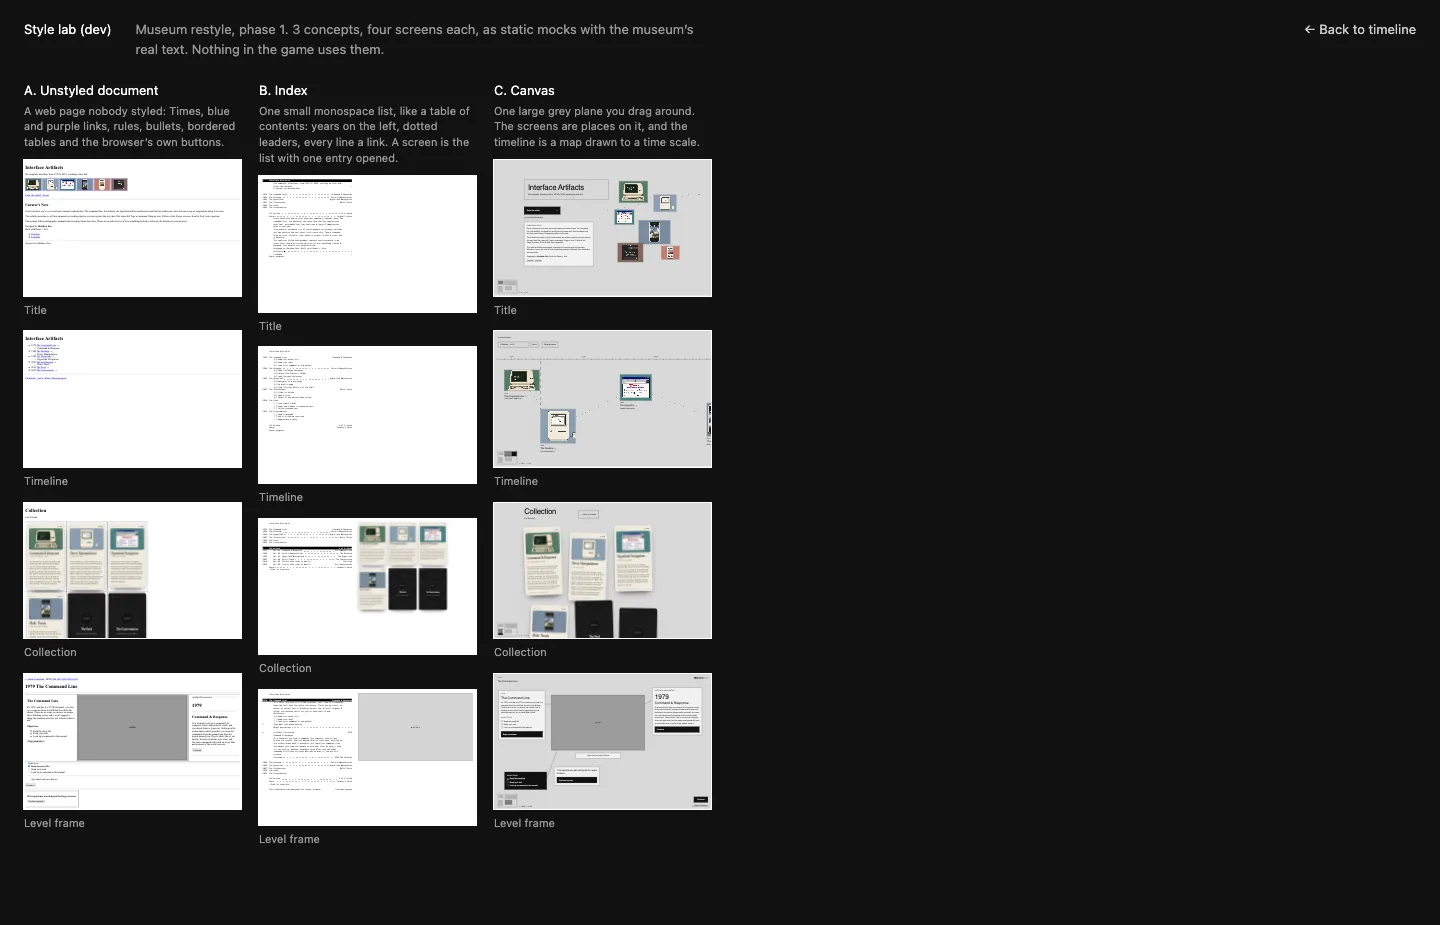
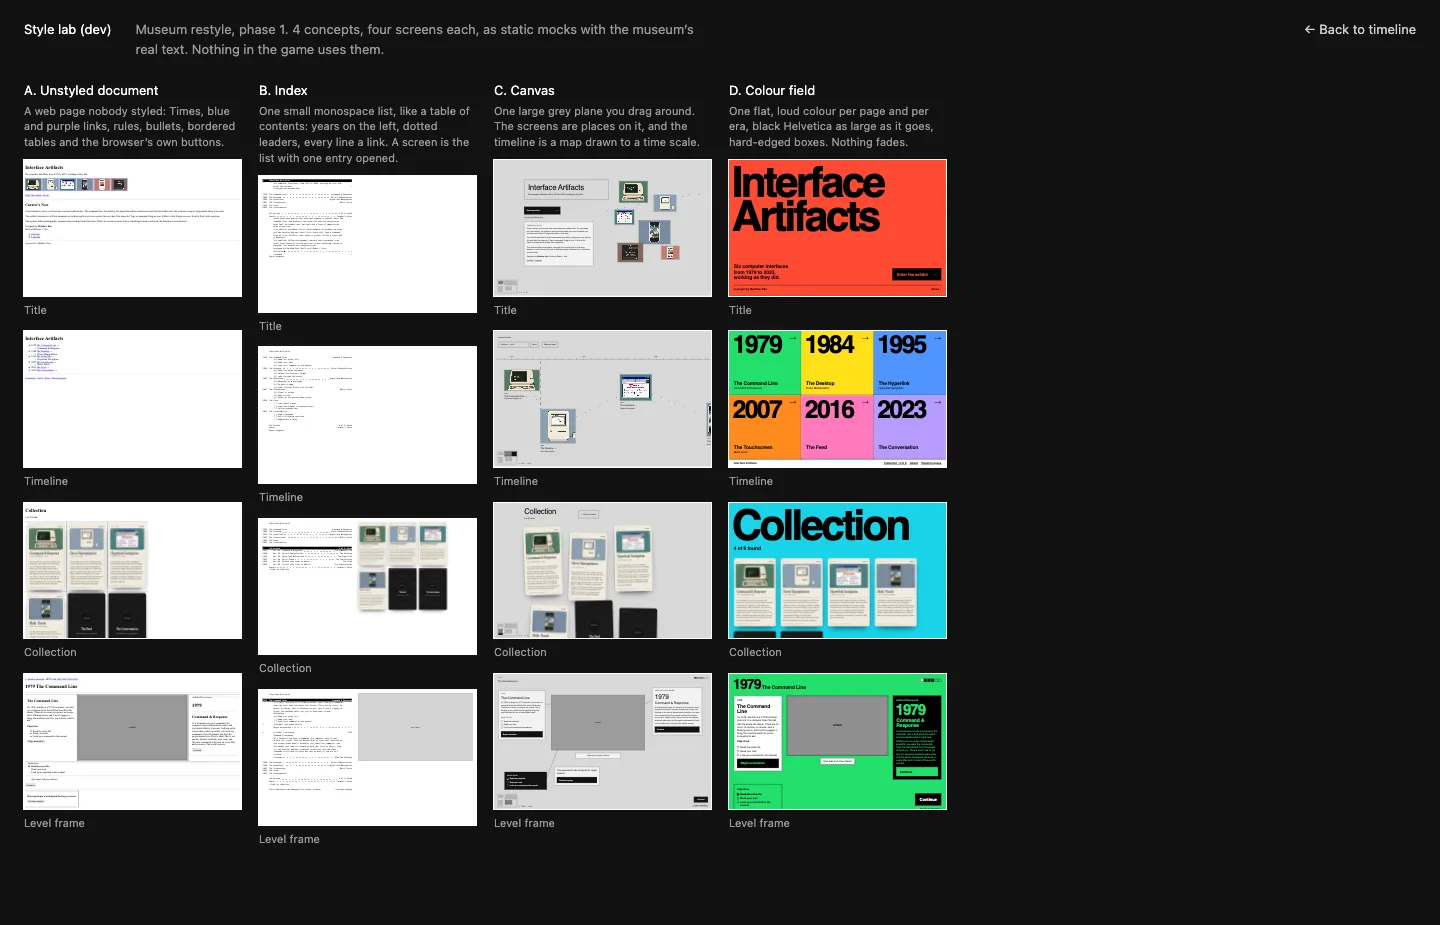
Style lab: concept D, colour field (one flat colour per page and era, giant black Helvetica)

Changed region(s): [[0.5, 0.0908, 0.6562, 0.9081]]

diff --git a/src/pages/styleLab/D_ColourField.module.css b/src/pages/styleLab/D_ColourField.module.css
@@ -1,0 +1,204 @@
+/* src/pages/styleLab/D_ColourField.module.css
+ * Concept D, "Colour field": one flat colour per field (--field), black
+ * Helvetica, hard 2px edges. Sizes are in cqw so the type fills the window
+ * at any width. No transitions anywhere. */
+
+.page {
+  min-height: 100cqh;
+  background: #000;
+  color: #000;
+  font: 700 clamp(14px, 1.25cqw, 18px) / 1.35 Helvetica, Arial, sans-serif;
+  --pad: clamp(16px, 2.2cqw, 40px);
+  --edge: 2px solid #000;
+  --lab-focus: #000;
+}
+.page :where(p, h1, h2, ul) { margin: 0; padding: 0; }
+.page :where(a, button) { color: inherit; font: inherit; }
+.page a:focus-visible, .page button:focus-visible { outline: 4px solid #000; outline-offset: 3px; }
+.black a:focus-visible, .black button:focus-visible { outline-color: var(--field); }
+
+/* ── A field ────────────────────────────────────────────────────────── */
+.field {
+  box-sizing: border-box;
+  min-height: 100cqh;
+  padding: var(--pad);
+  background: var(--field);
+  display: flex;
+  flex-direction: column;
+}
+.field + .field { border-top: var(--edge); }
+
+.giant {
+  font-size: 19.5cqw;
+  line-height: 0.82;
+  letter-spacing: -0.065em;
+  font-weight: 700;
+  margin-left: -0.05em !important;
+}
+.giant span { display: block; }
+.huge { font-size: clamp(34px, 8cqw, 130px); line-height: 0.9; letter-spacing: -0.05em; font-weight: 700; }
+.lede { font-size: clamp(18px, 2.3cqw, 36px); line-height: 1.12; letter-spacing: -0.02em; max-width: 22ch; }
+
+/* A black slab with the field's colour for its text: every button */
+.slab {
+  display: inline-flex;
+  align-items: center;
+  justify-content: space-between;
+  gap: 1.2em;
+  box-sizing: border-box;
+  padding: 0.7em 1em;
+  border: var(--edge);
+  background: #000;
+  color: var(--field) !important;
+  font-size: clamp(16px, 1.9cqw, 30px) !important;
+  font-weight: 700;
+  letter-spacing: -0.02em;
+  text-decoration: none;
+  text-align: left;
+  cursor: pointer;
+}
+.slab:hover { background: var(--field); color: #000 !important; }
+.slabs { display: flex; flex-wrap: wrap; gap: 12px; margin-top: auto !important; padding-top: var(--pad) !important; }
+
+/* A ruled line of small things along the bottom of a field */
+.strip {
+  display: flex;
+  flex-wrap: wrap;
+  justify-content: space-between;
+  gap: 6px 24px;
+  margin-top: var(--pad) !important;
+  padding-top: 12px !important;
+  border-top: var(--edge);
+}
+
+/* ── Title ──────────────────────────────────────────────────────────── */
+.titleFoot {
+  margin-top: auto;
+  padding-top: var(--pad);
+  display: flex;
+  flex-wrap: wrap;
+  align-items: flex-end;
+  justify-content: space-between;
+  gap: var(--pad);
+}
+.aboutField .columns {
+  margin-top: var(--pad);
+  columns: 2 30ch;
+  column-gap: var(--pad);
+  max-width: 110ch;
+  font-size: clamp(16px, 1.5cqw, 22px);
+  font-weight: 400;
+  line-height: 1.3;
+}
+.aboutField .columns p { margin-bottom: 0.9em; break-inside: avoid; }
+
+/* ── Timeline: six tiles ────────────────────────────────────────────── */
+.timeline { min-height: 100cqh; display: flex; flex-direction: column; background: #fff; }
+.tiles { flex: 1; display: grid; grid-template-columns: repeat(3, 1fr); grid-auto-rows: 1fr; }
+.tile {
+  position: relative;
+  display: flex;
+  flex-direction: column;
+  padding: calc(var(--pad) * 0.7) var(--pad) var(--pad);
+  background: var(--field);
+  border-right: var(--edge);
+  border-bottom: var(--edge);
+  text-decoration: none;
+  overflow: hidden;
+}
+.tile:nth-child(3n) { border-right: none; }
+.tile:hover, .tile:focus-visible { background: #000; color: var(--field); }
+.tile:focus-visible { outline-offset: -8px !important; outline-color: var(--field) !important; }
+.tileYear { font-size: 11.5cqw; line-height: 0.85; letter-spacing: -0.07em; margin-left: -0.05em; }
+.tileArrow { position: absolute; right: var(--pad); top: calc(var(--pad) * 0.6); font-size: 3.2cqw; line-height: 1; }
+.tileTitle { margin-top: auto; padding-top: 12px; font-size: clamp(18px, 2.3cqw, 36px); line-height: 1.05; letter-spacing: -0.03em; }
+.tileName { font-weight: 400; margin-top: 4px; }
+.timelineStrip { margin: 0 !important; padding: 12px var(--pad) !important; border-top: none; background: #fff; }
+.stripLinks { display: flex; flex-wrap: wrap; gap: 6px 24px; }
+.stripLinks a, .stripLinks button { background: none; border: none; padding: 0; cursor: pointer; text-decoration: underline; text-decoration-thickness: 2px; text-underline-offset: 3px; }
+.stripLinks a:hover, .stripLinks button:hover { background: #000; color: #fff; }
+
+/* ── Collection ─────────────────────────────────────────────────────── */
+.collectionField .lede { margin-top: 0.6em; }
+.cards { font-weight: 400; display: flex; flex-wrap: wrap; gap: var(--pad); margin-top: calc(var(--pad) * 1.5); align-items: stretch; }
+
+/* ── A room ─────────────────────────────────────────────────────────── */
+.levelField {
+  display: grid;
+  grid-template-columns: minmax(260px, 1fr) minmax(0, 2.1fr) minmax(260px, 1fr);
+  grid-template-rows: auto 1fr auto;
+  grid-template-areas:
+    'hud hud hud'
+    'intro artifact discovery'
+    'tracker artifact exit';
+  gap: var(--pad);
+  align-items: start;
+}
+.hud { grid-area: hud; display: flex; justify-content: space-between; align-items: flex-start; gap: var(--pad); }
+.hudEra { display: flex; align-items: baseline; gap: 0.5em; flex-wrap: wrap; }
+.hudYear { font-size: clamp(48px, 6.5cqw, 110px); line-height: 0.8; letter-spacing: -0.07em; margin-left: -0.05em; }
+.hudTitle { font-size: clamp(18px, 2.3cqw, 36px); letter-spacing: -0.03em; }
+.dots { display: flex; gap: 6px; }
+.dot { display: block; width: 18px; height: 18px; box-sizing: border-box; border: var(--edge); }
+.dot:hover { background: #000; }
+.dotDone { background: #000; }
+.dotNow { background: #fff; }
+
+.box { box-sizing: border-box; padding: clamp(14px, 1.4cqw, 22px); border: var(--edge); font-weight: 400; font-size: clamp(14px, 1.1cqw, 16px); }
+.box > * + * { margin-top: 12px !important; }
+.white { background: #fff; }
+.black { background: #000; color: var(--field); }
+.small { font-weight: 700; }
+.boxTitle { font-size: clamp(22px, 2.3cqw, 36px); line-height: 1; letter-spacing: -0.03em; font-weight: 700; }
+.bigYear { font-size: clamp(56px, 7cqw, 110px); line-height: 0.8; letter-spacing: -0.07em; font-weight: 700; margin-left: -0.05em !important; }
+.box .slab { width: 100%; font-size: clamp(15px, 1.4cqw, 22px) !important; }
+.slabField { background: var(--field); color: #000 !important; border-color: var(--field); }
+.slabField:hover { background: #000; color: var(--field) !important; }
+
+.intro { grid-area: intro; }
+.discovery { grid-area: discovery; }
+.tracker { grid-area: tracker; align-self: end; font-weight: 700; }
+.exit { grid-area: exit; align-self: end; display: flex; flex-direction: column; align-items: flex-end; gap: 12px; }
+.cont { color: #fff !important; }
+.cont:hover { background: #fff; }
+.back { text-decoration: underline; text-decoration-thickness: 2px; text-underline-offset: 3px; }
+.back:hover { background: #000; color: var(--field); }
+
+.artifact { grid-area: artifact; display: flex; flex-direction: column; align-items: center; gap: 16px; min-width: 0; }
+.standin {
+  box-sizing: border-box;
+  /* as wide as the column, or as wide as its proportions allow in 52% of the window's height */
+  width: min(100%, calc(52cqh * var(--w) / var(--h)), calc(var(--w) * 1.35px));
+  display: flex;
+  align-items: center;
+  justify-content: center;
+  border: var(--edge);
+  background: #8f8f8f;
+}
+.hint { padding: 0.6em 1em; font-style: italic; text-align: center; max-width: 100%; }
+
+.checks { list-style: none; }
+.checks li { display: flex; gap: 0.6em; align-items: baseline; padding: 0.15em 0; }
+.check { flex: none; width: 0.75em; height: 0.75em; border: var(--edge); transform: translateY(0.08em); }
+.checkDone { background: #000; }
+.done { text-decoration: line-through; text-decoration-thickness: 2px; }
+
+.noticeField { min-height: 0; }
+
+/* ── Phone width ────────────────────────────────────────────────────── */
+@container lab (max-width: 700px) {
+  .giant { font-size: 21cqw; }
+  .tiles { grid-template-columns: 1fr; }
+  .tile { border-right: none; min-height: 21cqh; }
+  .tileYear { font-size: 27cqw; }
+  .tileArrow { font-size: 9cqw; }
+  .levelField {
+    grid-template-columns: minmax(0, 1fr);
+    grid-template-rows: none;
+    grid-template-areas: 'hud' 'intro' 'artifact' 'tracker' 'discovery' 'exit';
+  }
+  .hud { flex-direction: column; gap: 12px; }
+  .hudYear { font-size: 27cqw; }
+  .exit { align-items: stretch; }
+  .cards { justify-content: center; }
+}

diff --git a/src/pages/styleLab/D_ColourField.jsx b/src/pages/styleLab/D_ColourField.jsx
@@ -1,0 +1,156 @@
+// src/pages/styleLab/D_ColourField.jsx
+//
+// Concept D, "Colour field": every page is one flat, loud colour, edge to
+// edge, with black Helvetica set as large as it will go and boxes with hard
+// 2px edges. Each era has its own colour: the timeline is six tiles of
+// them, and a room turns the whole window its colour. Nothing fades; a link
+// under the pointer swaps its colours.
+import s from './D_ColourField.module.css'
+import { ROOMS, TITLE, ABOUT, WORDS, MOCK, isFound, collectionLine, foundLine } from './content'
+import { CurrentCard } from './CurrentCard'
+
+// One field per era, in room order, and one each for the other pages. All
+// are light enough for black text at well over 4.5:1.
+export const ERA = ['#22e06c', '#ffe01a', '#4f95ff', '#ff8a1f', '#ff78bd', '#b79bff']
+const FIELD = { title: '#ff4b33', about: '#ffe01a', collection: '#19d3e8', notice: '#ffffff' }
+
+function TitlePage({ href }) {
+  return (
+    <>
+      <section className={`${s.field} ${s.titleField}`} style={{ '--field': FIELD.title }}>
+        <h1 className={s.giant}>{TITLE.name.split(' ').map(w => <span key={w}>{w} </span>)}</h1>
+        <div className={s.titleFoot}>
+          <p className={s.lede}>{TITLE.subtitle}</p>
+          <a className={s.slab} href={href('timeline')}>{TITLE.enter} <span aria-hidden="true">→</span></a>
+        </div>
+        <p className={s.strip}>
+          <span>{TITLE.by}</span>
+          <span>{TITLE.about} <span aria-hidden="true">↓</span></span>
+        </p>
+      </section>
+      <section className={`${s.field} ${s.aboutField}`} style={{ '--field': FIELD.about }}>
+        <h2 className={s.huge}>{ABOUT.label}</h2>
+        <div className={s.columns}>
+          {ABOUT.paragraphs.map(p => <p key={p}>{p}</p>)}
+          <p>{ABOUT.designedBy} <b>{ABOUT.name}</b>. {ABOUT.built}</p>
+        </div>
+        <p className={s.slabs}>
+          {ABOUT.links.map(l => <a key={l.label} className={s.slab} href={l.href} target="_blank" rel="noopener noreferrer">{l.label} <span aria-hidden="true">↗</span></a>)}
+        </p>
+      </section>
+    </>
+  )
+}
+
+function TimelinePage({ href }) {
+  return (
+    <div className={s.timeline}>
+      <div className={s.tiles}>
+        {ROOMS.map((r, i) => (
+          <a key={r.level} className={s.tile} style={{ '--field': ERA[i] }} href={href('level', r.level)}>
+            <span className={s.tileYear}>{r.year}</span>
+            <span className={s.tileArrow} aria-hidden="true">→</span>
+            <span className={s.tileTitle}>{r.title}</span>
+            <span className={s.tileName}>{isFound(r.level) ? r.name : ' '}</span>
+          </a>
+        ))}
+      </div>
+      <p className={`${s.strip} ${s.timelineStrip}`}>
+        <span>{WORDS.timelineTitle}</span>
+        <span className={s.stripLinks}>
+          <a href={href('collection')}>{collectionLine}</a>
+          <a href={href('title')}>{TITLE.about}</a>
+          <button type="button">{WORDS.reset}</button>
+        </span>
+      </p>
+    </div>
+  )
+}
+
+function CollectionPage({ href, go, art }) {
+  return (
+    <section className={`${s.field} ${s.collectionField}`} style={{ '--field': FIELD.collection }}>
+      <h1 className={s.giant}>{WORDS.collection}</h1>
+      <p className={s.lede}>{foundLine}</p>
+      <div className={s.cards}>
+        {ROOMS.map(r => <CurrentCard key={r.level} room={r} art={art} width={280} onOpen={() => go('level', r.level)} />)}
+      </div>
+      <p className={s.slabs}><a className={s.slab} href={href('timeline')}>{WORDS.back}</a></p>
+    </section>
+  )
+}
+
+function LevelPage({ room, href, go }) {
+  const next = ROOMS[room.level + 1]
+  return (
+    <>
+      <section className={`${s.field} ${s.levelField}`} style={{ '--field': ERA[room.level] }}>
+        <header className={s.hud}>
+          <p className={s.hudEra}>
+            <span className={s.hudYear}>{room.year}</span>
+            <span className={s.hudTitle}>{room.title}</span>
+          </p>
+          <p className={s.dots}>
+            {ROOMS.map(r => (
+              <a key={r.level} href={href('level', r.level)} aria-label={`${r.year} ${r.title}`} aria-current={r.level === room.level ? 'page' : undefined}
+                className={`${s.dot} ${r.level === room.level ? s.dotNow : isFound(r.level) ? s.dotDone : ''}`} />
+            ))}
+          </p>
+        </header>
+
+        <div className={`${s.box} ${s.white} ${s.intro}`}>
+          <p className={s.small}>{room.year}</p>
+          <h2 className={s.boxTitle}>{room.title}</h2>
+          <p>{room.intro}</p>
+          <p className={s.small}>{WORDS.objectives}</p>
+          <ul className={s.checks}>{room.objectives.map(o => <li key={o}><span className={s.check} />{o}</li>)}</ul>
+          <button type="button" className={s.slab}>{WORDS.begin}</button>
+        </div>
+
+        <div className={s.artifact}>
+          <div className={s.standin} style={{ aspectRatio: `${room.frame[0]} / ${room.frame[1]}`, '--w': room.frame[0], '--h': room.frame[1] }}>artifact</div>
+          <p className={`${s.box} ${s.white} ${s.hint}`} role="status">{room.hints[MOCK.hintFor]}</p>
+        </div>
+
+        <div className={`${s.box} ${s.black} ${s.discovery}`}>
+          <p className={s.small}>{WORDS.discovered}</p>
+          <p className={s.bigYear}>{room.year}</p>
+          <h2 className={s.boxTitle}>{room.name}</h2>
+          <p>{room.description}</p>
+          <button type="button" className={`${s.slab} ${s.slabField}`} onClick={() => (next ? go('level', next.level) : go('timeline'))}>{WORDS.cont}</button>
+        </div>
+
+        <div className={`${s.box} ${s.tracker}`}>
+          <p className={s.small}>{WORDS.objectives}</p>
+          <ul className={s.checks}>
+            {room.objectives.map((o, i) => {
+              const done = MOCK.done.includes(i)
+              return <li key={o} className={done ? s.done : ''}><span className={`${s.check} ${done ? s.checkDone : ''}`} />{o}</li>
+            })}
+          </ul>
+        </div>
+
+        <div className={s.exit}>
+          <button type="button" className={`${s.slab} ${s.cont}`}>{WORDS.cont}</button>
+          <a className={s.back} href={href('timeline')}>{WORDS.back}</a>
+        </div>
+      </section>
+
+      <section className={`${s.field} ${s.noticeField}`} style={{ '--field': FIELD.notice }}>
+        <h2 className={s.huge}>{WORDS.smallScreen}</h2>
+        <p className={s.slabs}><button type="button" className={s.slab}>{WORDS.smallScreenGo}</button></p>
+      </section>
+    </>
+  )
+}
+
+export default function ColourField({ screen, level, href, go, art }) {
+  return (
+    <div className={s.page}>
+      {screen === 'title' && <TitlePage href={href} />}
+      {screen === 'timeline' && <TimelinePage href={href} />}
+      {screen === 'collection' && <CollectionPage href={href} go={go} art={art} />}
+      {screen === 'level' && <LevelPage room={ROOMS[level]} href={href} go={go} />}
+    </div>
+  )
+}

diff --git a/src/pages/styleLab/concepts.js b/src/pages/styleLab/concepts.js
@@ -4,6 +4,7 @@
 import Document from './A_Document'
 import Index from './B_Index'
 import Canvas from './C_Canvas'
+import ColourField from './D_ColourField'
 
 export const SCREENS = [
   { id: 'title', label: 'Title' },
@@ -33,5 +34,12 @@ export const CONCEPTS = [
     name: 'Canvas',
     blurb: 'One large grey plane you drag around. The screens are places on it, and the timeline is a map drawn to a time scale.',
     Component: Canvas,
+  },
+  {
+    id: 'd',
+    letter: 'D',
+    name: 'Colour field',
+    blurb: 'One flat, loud colour per page and per era, black Helvetica as large as it goes, hard-edged boxes. Nothing fades.',
+    Component: ColourField,
   },
 ]
